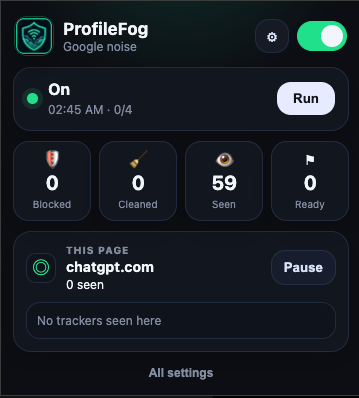
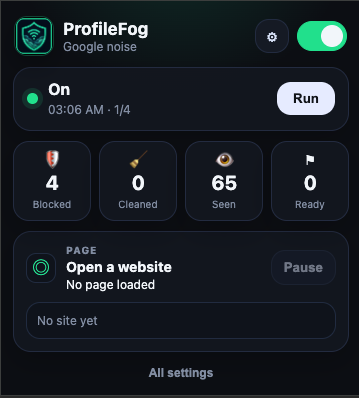
Add ProfileFog popup screenshot to README

diff --git a/README.md b/README.md
@@ -5,11 +5,6 @@
 </p>
 
 <p align="center">
-  Clean popup UI with one click controls, tracker stats, and quick access to settings.
-</p>
-
-
-<p align="center">
   <img src="icons/Logo.png" alt="ProfileFog" width="100%">
 </p>
 